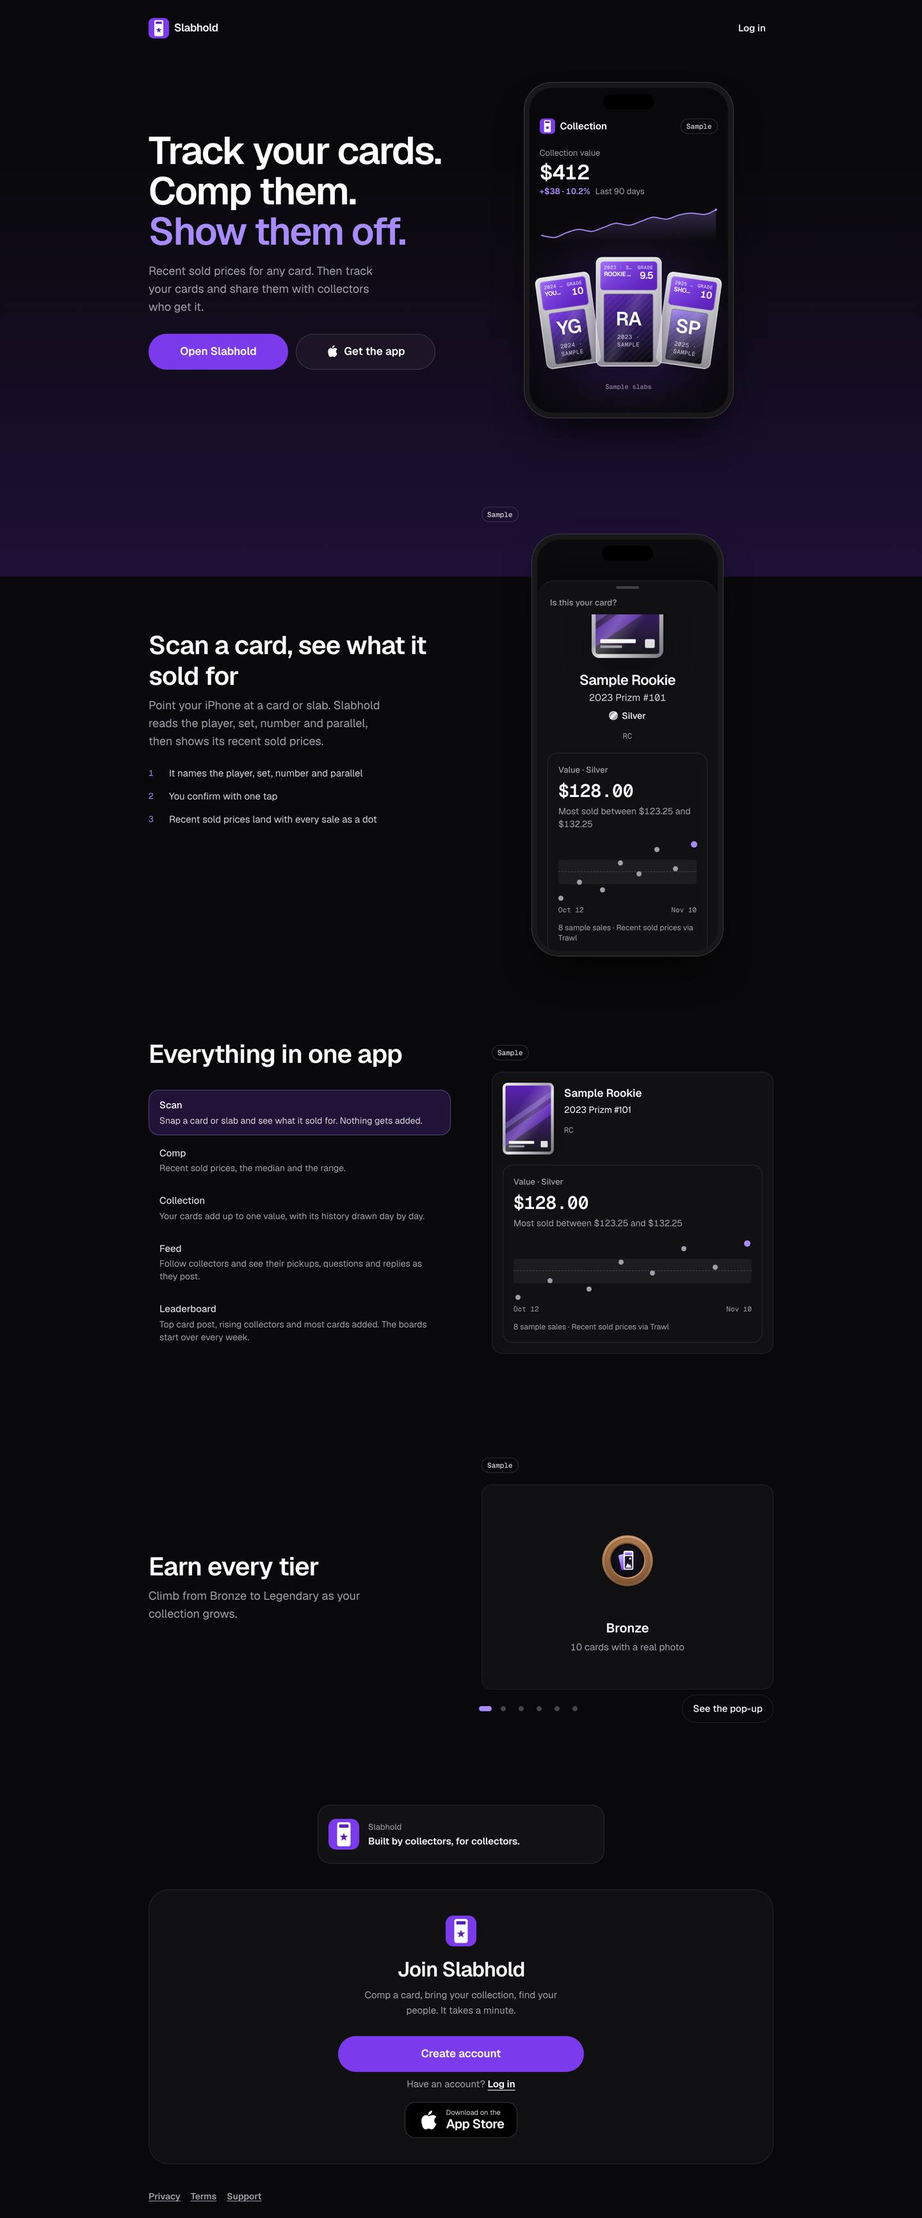
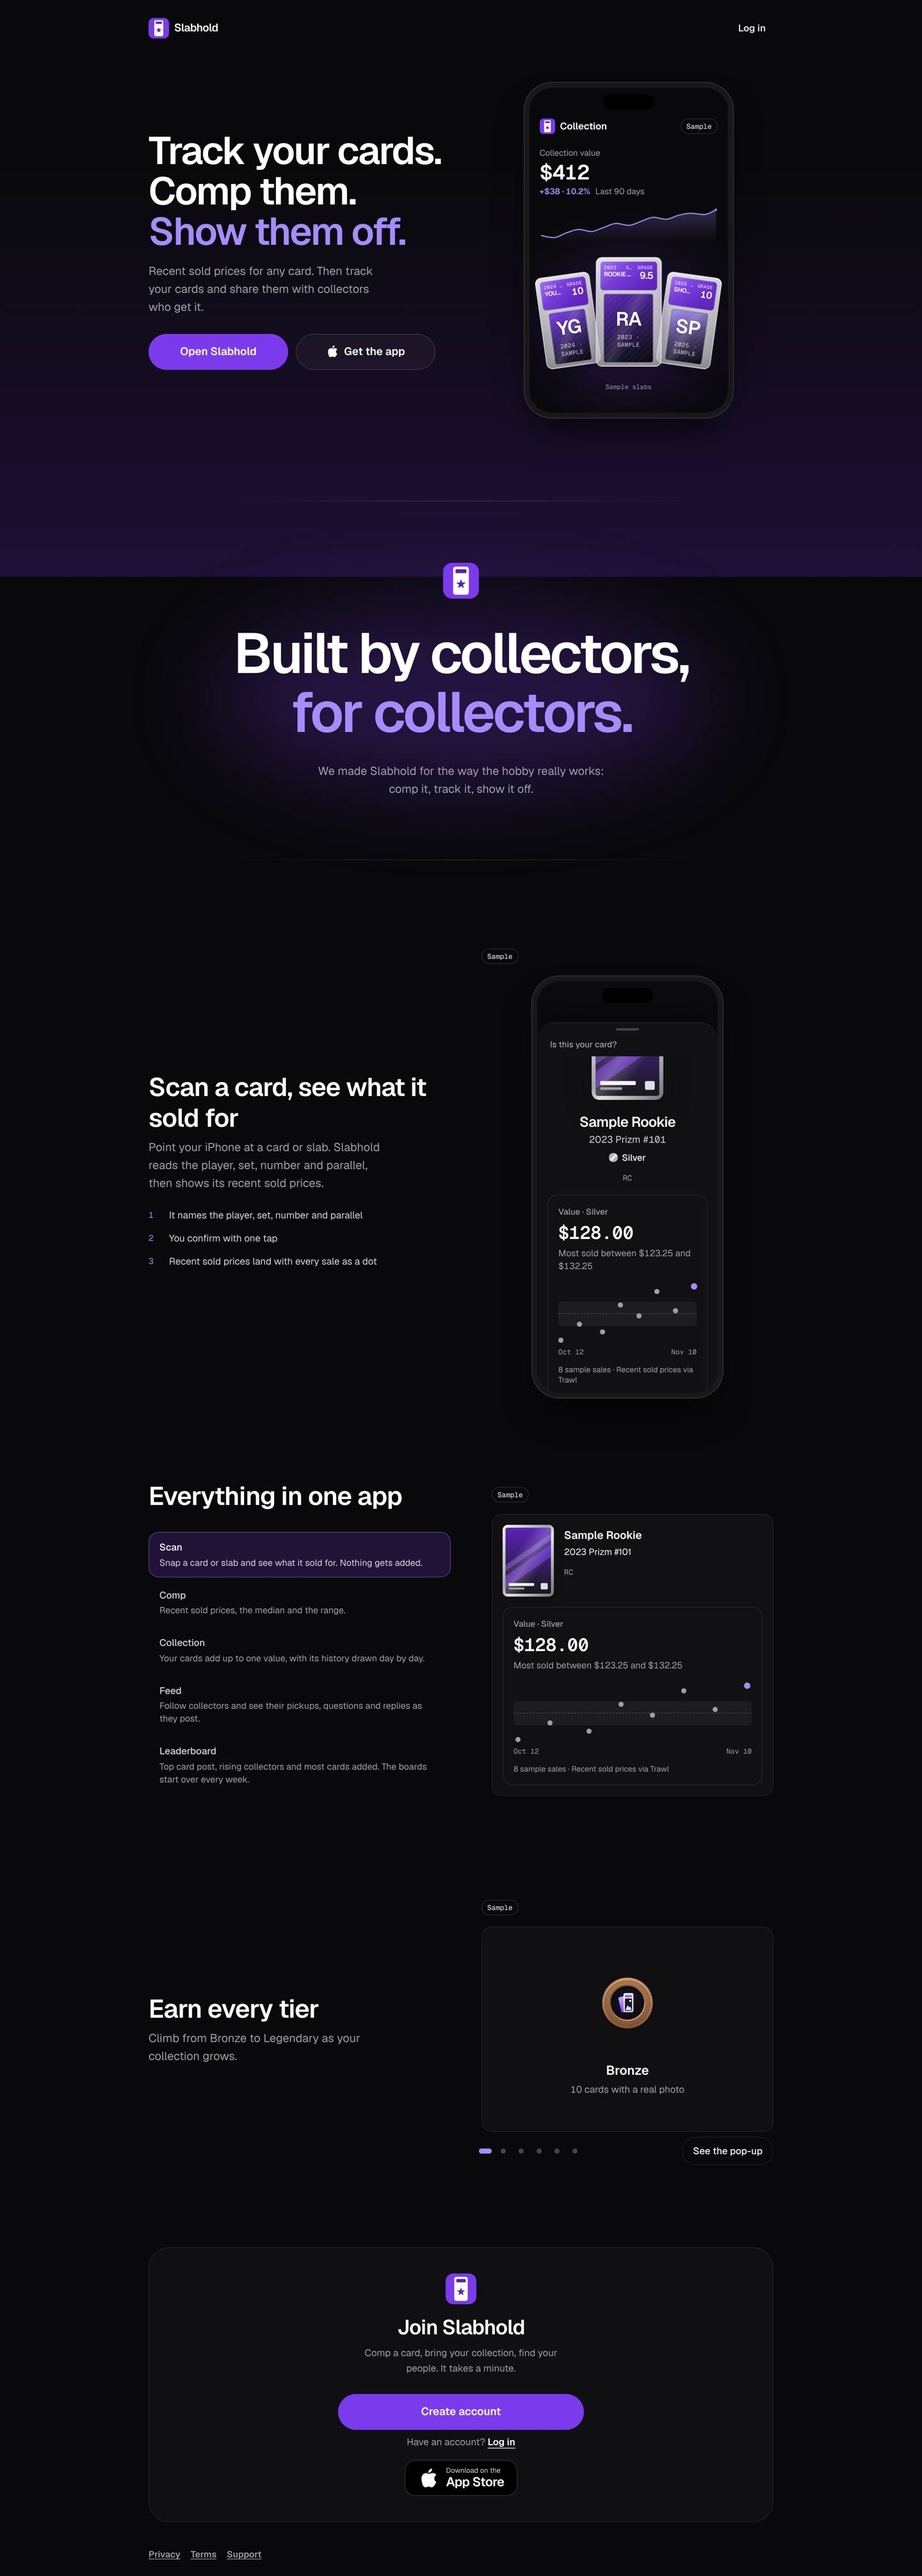
Landing: the slogan as the page's big statement under the hero
"Built by collectors, for collectors." moves from a small card near the
footer to a full-width display heading right below the hero.

Claude-Session: https://claude.ai/code/session_01EqJov4dE8ZMxAmbP7xjqQb

diff --git a/components/landing/founder-note.tsx b/components/landing/founder-note.tsx
@@ -1,17 +1,36 @@
 import { NoHeadPreload } from "@/components/landing/no-head-preload";
 import { Logo } from "@/components/logo";
 
-/** A small brand line below the panels: the logo and "Built by collectors, for collectors." */
+/** The slogan, word for word. */
+export const SLOGAN = "Built by collectors, for collectors.";
+
+/**
+ * The slogan as the page's one big statement, right under the hero: the logo,
+ * then "Built by collectors, for collectors." in display type over a soft
+ * purple light, between two hairlines. It names no one: it speaks
+ * for the team. Drawn on the server.
+ */
 export function FounderNote() {
   return (
-    <div className="flex min-h-[92px] items-center gap-3.5 rounded-[1.25rem] border border-white/10 bg-[#121214] px-4 py-3.5" data-founder-note="plain">
-      <NoHeadPreload>
-        <Logo className="h-12 w-12 shrink-0" />
-      </NoHeadPreload>
-      <div className="min-w-0">
-        <p className="text-[13px] text-zinc-400">Slabhold</p>
-        <p className="mt-0.5 text-[15px] leading-5 font-semibold text-zinc-100">Built by collectors, for collectors.</p>
+    <section data-founder-note="plain" className="landing-reveal relative mt-24 text-center lg:mt-32">
+      <div aria-hidden className="mx-auto h-px w-full max-w-3xl bg-[linear-gradient(90deg,transparent,rgba(255,255,255,0.16),transparent)]" />
+      <div className="relative px-2 py-16 lg:py-24">
+        <div aria-hidden className="absolute inset-x-[10%] top-[30%] bottom-[20%] rounded-[50%] bg-[#7C3AED] opacity-25 blur-[72px]" />
+        <div className="relative">
+          <NoHeadPreload>
+            <Logo className="mx-auto h-12 w-12 lg:h-14 lg:w-14" />
+          </NoHeadPreload>
+          <h2 className="mt-8 text-[2.125rem] leading-[1.04] font-semibold tracking-[-0.04em] text-white min-[400px]:text-[2.5rem] sm:text-6xl lg:mt-10 lg:text-[5.5rem]">
+            Built by collectors,
+            <br />
+            <span className="text-[#A78BFA]">for collectors.</span>
+          </h2>
+          <p className="mx-auto mt-6 max-w-sm text-[16px] leading-6 text-pretty text-zinc-400 lg:mt-8 lg:max-w-md lg:text-[18px] lg:leading-7">
+            We made Slabhold for the way the hobby really works: comp it, track it, show it off.
+          </p>
+        </div>
       </div>
-    </div>
+      <div aria-hidden className="mx-auto h-px w-full max-w-3xl bg-[linear-gradient(90deg,transparent,rgba(255,255,255,0.16),transparent)]" />
+    </section>
   );
 }

diff --git a/components/landing-page.test.tsx b/components/landing-page.test.tsx
@@ -356,6 +356,10 @@ describe("landing founder touch", () => {
     const html = renderToStaticMarkup(createElement(FounderNote));
     assert.match(html, /data-founder-note="plain"/);
     assert.match(text(html), /Built by collectors, for collectors\./);
+    // The slogan is the page's big statement: a heading in display type, right under the hero.
+    assert.match(html, /<h2 class="[^"]*lg:text-\[5\.5rem\]/);
+    const landing = read("components/landing-page.tsx");
+    assert.ok(landing.indexOf("<FounderNote />") < landing.indexOf("<FeaturePanels />"));
     assert.doesNotMatch(html, /<a |rounded-full|avatar|From the founder|Follow on Slabhold/);
     const source = read("components/landing/founder-note.tsx");
     assert.doesNotMatch(source, /showcase|profile|avatar|founder_follow/);

diff --git a/components/landing-page.tsx b/components/landing-page.tsx
@@ -58,13 +58,11 @@ export function LandingPage({ founder = null }: { founder?: FounderShowcase | nu
           </div>
         </section>
 
+        <FounderNote />
+
         <FeaturePanels />
 
-        <div className="landing-reveal mt-24 lg:mx-auto lg:mt-32 lg:w-full lg:max-w-md">
-          <FounderNote />
-        </div>
-
-        <section className="landing-reveal mt-10 rounded-[2rem] border border-white/[0.08] bg-white/[0.03] px-6 py-10 text-center">
+        <section className="landing-reveal mt-24 lg:mt-32 rounded-[2rem] border border-white/[0.08] bg-white/[0.03] px-6 py-10 text-center">
           <NoHeadPreload>
             <Logo className="mx-auto h-12 w-12" />
           </NoHeadPreload>
